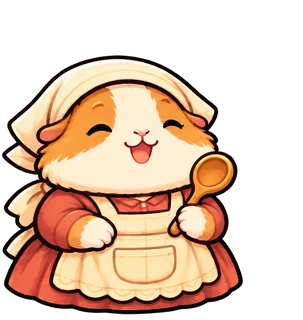
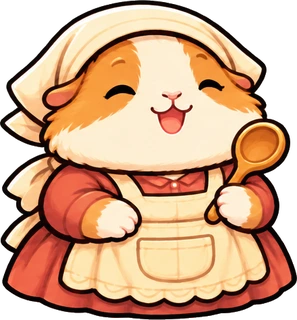
일일 의뢰: softer wallpaper tone, auntie/noble art re-cropped to full size
- Wallpaper under the counter sits between cream and caramel
- Auntie and noble art had a faint glow counted into their crop, leaving empty margins
  that drew them smaller than the others; re-cropped to the character itself

diff --git a/src/screens/DailyScreen.tsx b/src/screens/DailyScreen.tsx
@@ -26,8 +26,8 @@ const COUNTER_LIFT = 10;
 // Inside the ticket frames: cream, under a clear warm apricot fade at the top.
 const TICKET_FILL = "#fbe6c2";
 const PATTERN_ASPECT = 1386 / 780;
-// The pattern art's base caramel — fills in below the picture on a very tall screen.
-export const DAILY_LOWER_COLOR = "#d59154";
+// The pattern art's base (between cream and caramel) — fills in below the picture on a very tall screen.
+export const DAILY_LOWER_COLOR = "#e9b882";
 const COUNTER_ASPECT = 398 / 900;
 // The counter art's wooden top (front edge) sits this far down the picture.
 const COUNTER_TOP = 0.36;
@@ -95,7 +95,7 @@ export function DailyScreen({
             pointerEvents="none"
           />
           <LinearGradient colors={[colors.paper, "rgba(245, 237, 218, 0)"]} style={[styles.headerBlend, { height: headerHeight + 16 }]} pointerEvents="none" />
-          <LinearGradient colors={["rgba(213, 145, 84, 0)", DAILY_LOWER_COLOR]} style={styles.bottomFade} pointerEvents="none" />
+          <LinearGradient colors={["rgba(233, 184, 130, 0)", DAILY_LOWER_COLOR]} style={styles.bottomFade} pointerEvents="none" />
           {header && (
             <View style={styles.header} onLayout={(event) => setHeaderHeight(event.nativeEvent.layout.height)}>
               {header}

diff --git a/src/assets.ts b/src/assets.ts
@@ -1094,7 +1094,7 @@ export const dailyImages = {
 };
 
 // 일일 의뢰 customers (state/daily.ts CUSTOMERS), all 320 tall: lady 307, farmer 297,
-// scholar 288, noble 302, gentleman 285, auntie 303 wide.
+// scholar 288, noble 313, gentleman 285, auntie 297 wide.
 export const npcImages = {
   customerLady: require("../assets/npc/customer-lady.webp"),
   customerFarmer: require("../assets/npc/customer-farmer.webp"),
